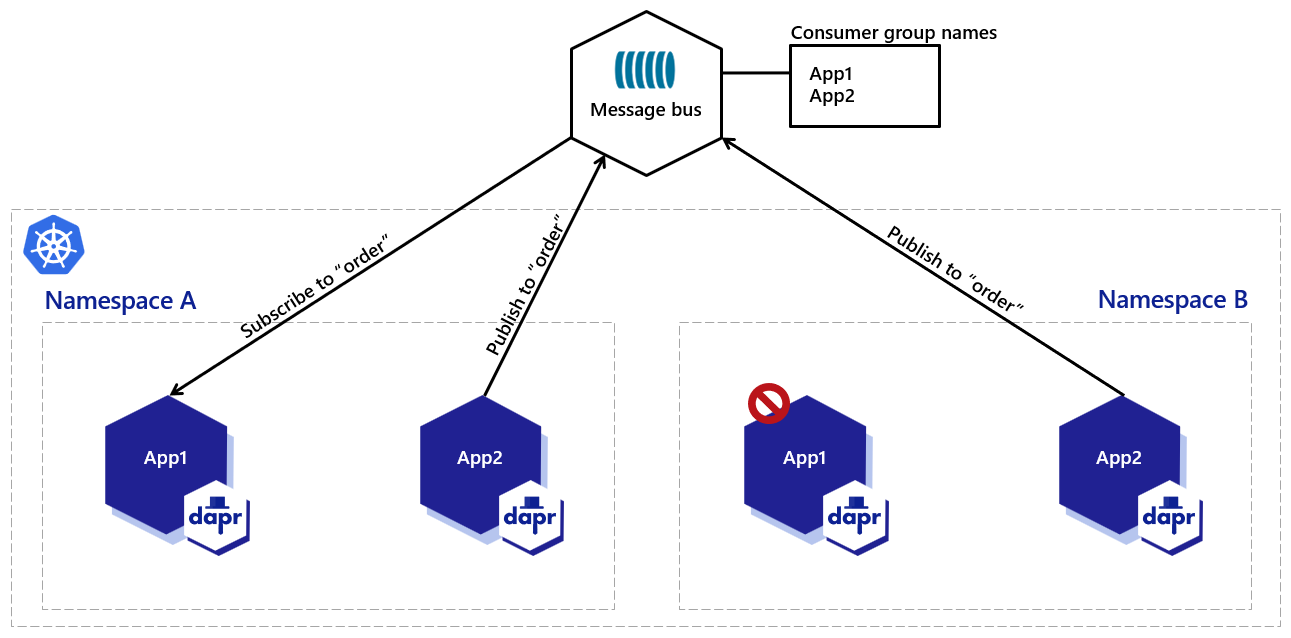
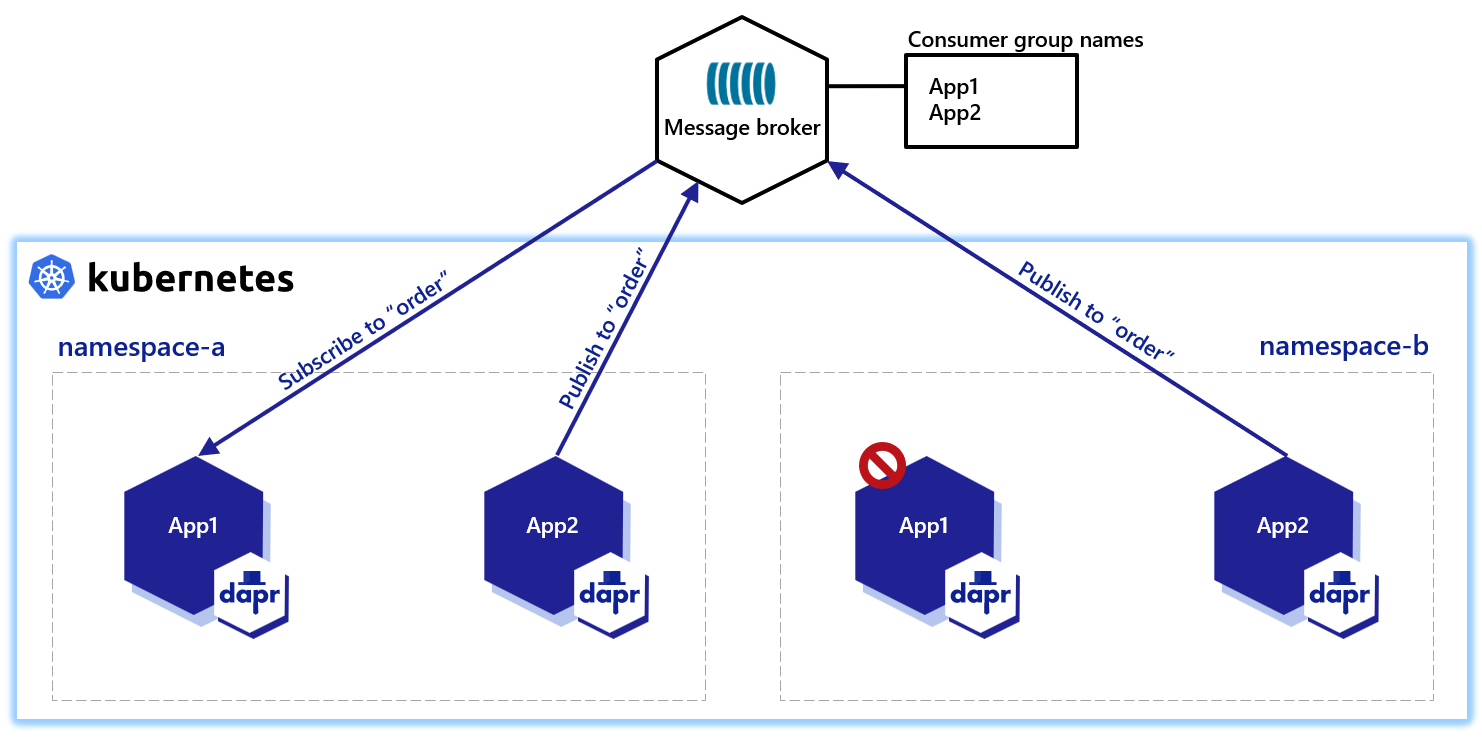
updates per Mark

diff --git a/daprdocs/content/en/developing-applications/building-blocks/pubsub/howto-namespace.md b/daprdocs/content/en/developing-applications/building-blocks/pubsub/howto-namespace.md
@@ -6,7 +6,7 @@ weight: 5000
 description: "Learn how to use the metadata-based namespace consumer group in your component" 
 ---
 
-You've set up [Dapr's pub/sub API building block]({{< ref pubsub-overview >}}), and your applications are publishing and subscribing to topics smoothly, using a centralized message bus. What if you'd like to perform simple A/B testing, blue/green deployments, or even canary deployments for your applications? Even with using Dapr, this can prove difficult.
+You've set up [Dapr's pub/sub API building block]({{< ref pubsub-overview >}}), and your applications are publishing and subscribing to topics smoothly, using a centralized message broker. What if you'd like to perform simple A/B testing, blue/green deployments, or even canary deployments for your applications? Even with using Dapr, this can prove difficult.
 
 Dapr solves multi-tenancy at-scale with its pub/sub namespace consumer groups construct. 
 
@@ -16,7 +16,7 @@ Let's say you have a Kubernetes cluster, with two applications (App1 and App2) d
 
 <img src="/images/howto-namespace/basic-pubsub.png" width=1000 alt="Diagram showing basic pubsub process.">
 
-In order to perform simple testing and deployments while using a centralized message bus, you create another namespace with two applications of the same `app-id`, App1 and App2. 
+In order to perform simple testing and deployments while using a centralized message broker, you create another namespace with two applications of the same `app-id`, App1 and App2. 
 
 Dapr creates consumer groups using the `app-id` of individual applications, so the consumer group names will remain App1 and App2. 
 
@@ -49,7 +49,7 @@ By configuring `consumerID` with the `{namespace}` value, you'll be able to use 
 
 <img src="/images/howto-namespace/with-namespace.png" width=1000 alt="Diagram showing how namespace consumer groups help with multi-tenancy.">
 
-In the diagram above, you have two namespaces, each with applications of the same `app-id`, publishing and subscribing to the same centralized message bus `orders`. This time, however, Dapr has created consumer group names prefixed with the namespace in which they're running. 
+In the diagram above, you have two namespaces, each with applications of the same `app-id`, publishing and subscribing to the same centralized message broker `orders`. This time, however, Dapr has created consumer group names prefixed with the namespace in which they're running. 
 
 Without you needing to change your code/`app-id`, the namespace consumer group allows you to:
 - Add more namespaces
@@ -57,10 +57,10 @@ Without you needing to change your code/`app-id`, the namespace consumer group a
 - Keep the same `app-id` across namespaces
 - Have your entire deployment pipeline remain intact
 
-Simply include the `"{namespace}"` consumer group construct in your component metadata. You don't need to encode the namespace in the metadata. Dapr will understand the namespace running and will fill the namespace for you, like a dynamic metadata value injected by the runtime.
+Simply include the `"{namespace}"` consumer group construct in your component metadata. You don't need to encode the namespace in the metadata. Dapr understands the namespace it is running in and completes the namespace value for you, like a dynamic metadata value injected by the runtime.
 
 {{% alert title="Note" color="primary" %}}
-If you add the namespace consumer group to your metadata afterwards, Dapr will update everything for you.
+If you add the namespace consumer group to your metadata afterwards, Dapr updates everything for you. This means that you can add namespace metadata value to existing pub/sub deployments.
 {{% /alert %}}
 
 ## Demo
@@ -71,4 +71,4 @@ Watch [this video for an overview on pub/sub multi-tenancy](https://youtu.be/eK4
 
 ## Next steps
 
-- Learn more about [pub/sub namespaces]({{< ref pubsub-namespaces >}}).
+- Learn more about configuring Pub/Sub components with multiple namespaces [pub/sub namespaces]({{< ref pubsub-namespaces >}}).

diff --git a/daprdocs/content/en/developing-applications/building-blocks/pubsub/pubsub-overview.md b/daprdocs/content/en/developing-applications/building-blocks/pubsub/pubsub-overview.md
@@ -34,7 +34,7 @@ When using pub/sub in Dapr:
 1. The pub/sub building block makes calls into a Dapr pub/sub component that encapsulates a specific message broker.
 1. To receive messages on a topic, Dapr subscribes to the pub/sub component on behalf of your service with a topic and delivers the messages to an endpoint on your service when they arrive.
 
-In the diagram below, a "shipping" service and an "email" service have both subscribed to topics published by a "cart" service. Each service loads pub/sub component configuration files that point to the same pub/sub message bus component; for example: Redis Streams, NATS Streaming, Azure Service Bus, or GCP pub/sub.
+In the diagram below, a "shipping" service and an "email" service have both subscribed to topics published by a "cart" service. Each service loads pub/sub component configuration files that point to the same pub/sub message broker component; for example: Redis Streams, NATS Streaming, Azure Service Bus, or GCP pub/sub.
 
 <img src="/images/pubsub-overview-components.png" width=1000>
 <br></br>
@@ -98,7 +98,7 @@ Sometimes, messages can't be processed because of a variety of possible issues, 
 
 ### Namespace consumer groups
 
-Dapr solves multi-tenancy at-scale with its [namespace consumer groups construct]({{< ref howto-namespace >}}). Simply include the `"{namespace}"` value in your component metadata to allow multiple namespaces with applications of the same `app-id` to publish and subscribe to the same centralized message bus.
+Dapr solves multi-tenancy at-scale with [namespaces for consumer groups]({{< ref howto-namespace >}}). Simply include the `"{namespace}"` value in your component metadata for consumer groups to allow multiple namespaces with applications of the same `app-id` to publish and subscribe to the same message broker.
 
 ### At-least-once guarantee
 
